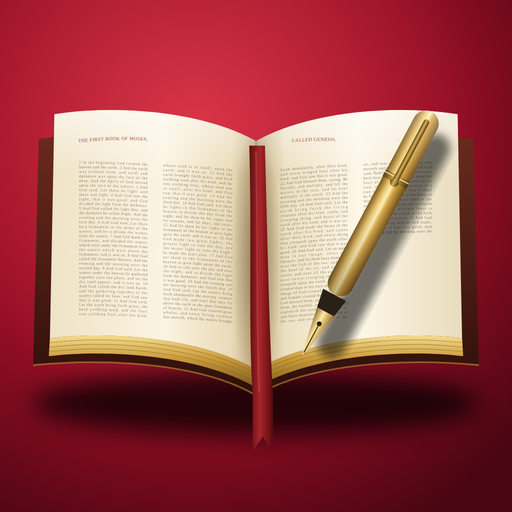
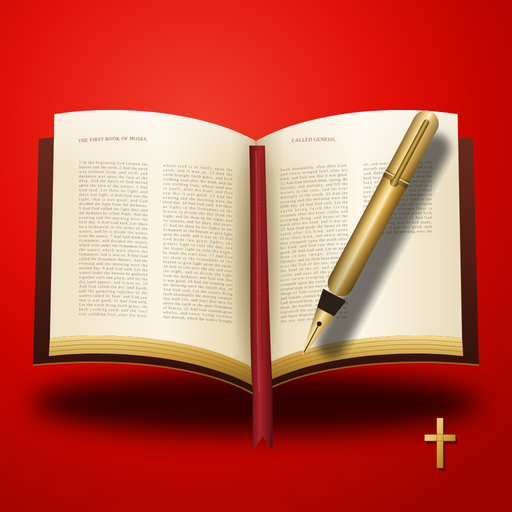
Publish 1.2.18 (2026-10-11 19:31)

diff --git a/index.html b/index.html
@@ -12,15 +12,15 @@
 <meta property="og:title" content="Never Get Bored — Nii Okai's Journal Through Scripture">
 <meta property="og:description" content="A verse-by-verse journal through Scripture by Nii Okai. Over 4,000 personal notes across all 66 books, with the King James text, reading plans and audio.">
 <meta property="og:url" content="https://bible.getwordwisdom.com/">
-<meta property="og:image" content="https://bible.getwordwisdom.com/icon-1024.png?v=13">
+<meta property="og:image" content="https://bible.getwordwisdom.com/icon-1024.png?v=14">
 <meta name="twitter:card" content="summary_large_image">
 <meta name="twitter:title" content="Never Get Bored — Nii Okai's Journal Through Scripture">
 <meta name="twitter:description" content="A verse-by-verse journal through Scripture by Nii Okai. Over 4,000 personal notes across all 66 books.">
-<meta name="twitter:image" content="https://bible.getwordwisdom.com/icon-1024.png?v=13">
+<meta name="twitter:image" content="https://bible.getwordwisdom.com/icon-1024.png?v=14">
 <meta name="theme-color" content="#000000">
-<link rel="apple-touch-icon" href="apple-touch-icon.png?v=13">
-<link rel="icon" type="image/png" sizes="32x32" href="favicon-32.png?v=13">
-<link rel="icon" type="image/png" sizes="192x192" href="icon-192.png?v=13">
+<link rel="apple-touch-icon" href="apple-touch-icon.png?v=14">
+<link rel="icon" type="image/png" sizes="32x32" href="favicon-32.png?v=14">
+<link rel="icon" type="image/png" sizes="192x192" href="icon-192.png?v=14">
 <meta name="apple-mobile-web-app-capable" content="yes">
 <meta name="apple-mobile-web-app-status-bar-style" content="default">
 <meta name="apple-mobile-web-app-title" content="Bible Journal N.O">
@@ -982,7 +982,7 @@ body[data-view]:not([data-view="read"]):not([data-view="search"]) .rc{display:no
 <body>
 <!-- Opening screen: the red logo on black while the app gets ready (11 Oct 2026) -->
 <div id="boot" aria-hidden="true" style="position:fixed;inset:0;z-index:99999;background:#000000;display:flex;flex-direction:column;align-items:center;justify-content:center;gap:22px;transition:opacity .35s ease">
-  <img src="icon-512.png?v=13" alt="" width="220" height="220" style="width:min(46vw,240px);height:auto;border-radius:22%;box-shadow:0 0 70px rgba(225,6,0,.38)">
+  <img src="icon-512.png?v=14" alt="" width="220" height="220" style="width:min(46vw,240px);height:auto;border-radius:22%;box-shadow:0 0 70px rgba(225,6,0,.38)">
   <div style="font-family:Georgia,'Times New Roman',serif;color:#fff;text-align:center;line-height:1.35">
     <div style="font-size:clamp(20px,5vw,28px);letter-spacing:.3px">Nii Okai&#8217;s Bible Journal</div>
     <div style="font-size:clamp(12px,3.2vw,14px);opacity:.85;letter-spacing:2px;text-transform:uppercase;margin-top:6px">Never Get Bored</div>
@@ -1146,7 +1146,7 @@ body[data-view]:not([data-view="read"]):not([data-view="search"]) .rc{display:no
 /* ---------- State ---------- */
 const LS_KEY='henry_bible_commentary_v1';
 const LS_PREFS='henry_bible_prefs_v1';
-const BUILD={v:'1.2.17', date:'11 Oct 2026'};
+const BUILD={v:'1.2.18', date:'11 Oct 2026'};
 var _themeMode='auto';   // 'auto' follows the device · 'light' · 'dark'
 const BLOG_URL='https://www.getwordwisdom.com/';
 const OWNER_KEY='niiokai';

diff --git a/sw.js b/sw.js
@@ -1,6 +1,6 @@
 /* Never Get Bored — service worker.
    Bump CACHE whenever the app shell changes so installed copies refresh. */
-const CACHE = 'ngb-v110';
+const CACHE = 'ngb-v111';
 const PRECACHE = [
   './', './index.html', './manifest.webmanifest', './icon-192.png', './icon-512.png',
   './data/books.js', './data/versions.js', './data/KJV.js', './data/chronological.js', './data/headings.js', './data/audio_kjv.js',
